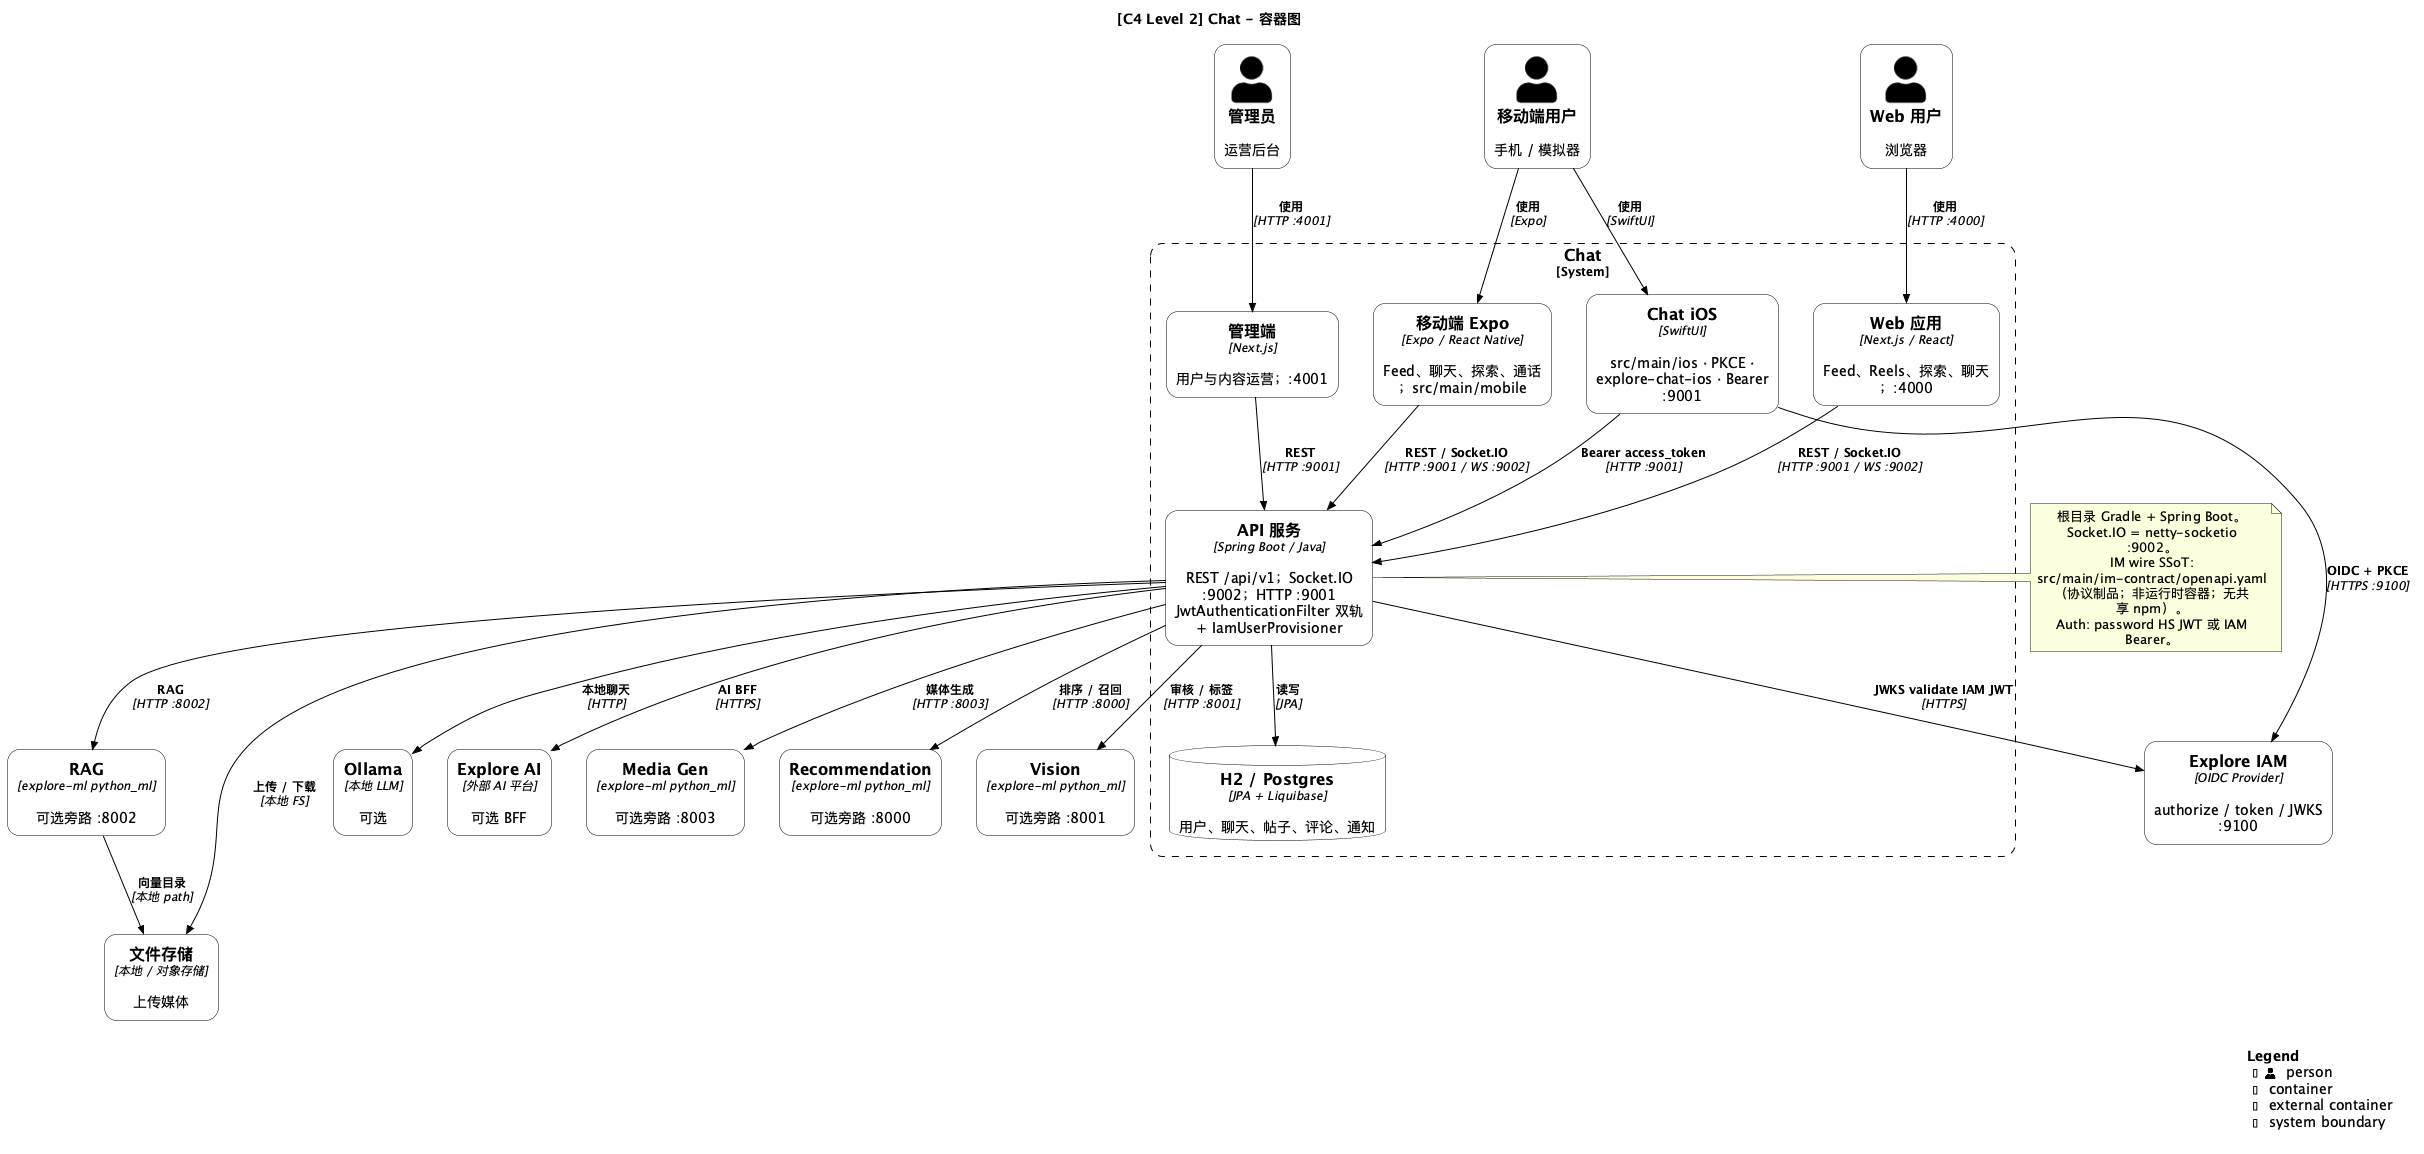
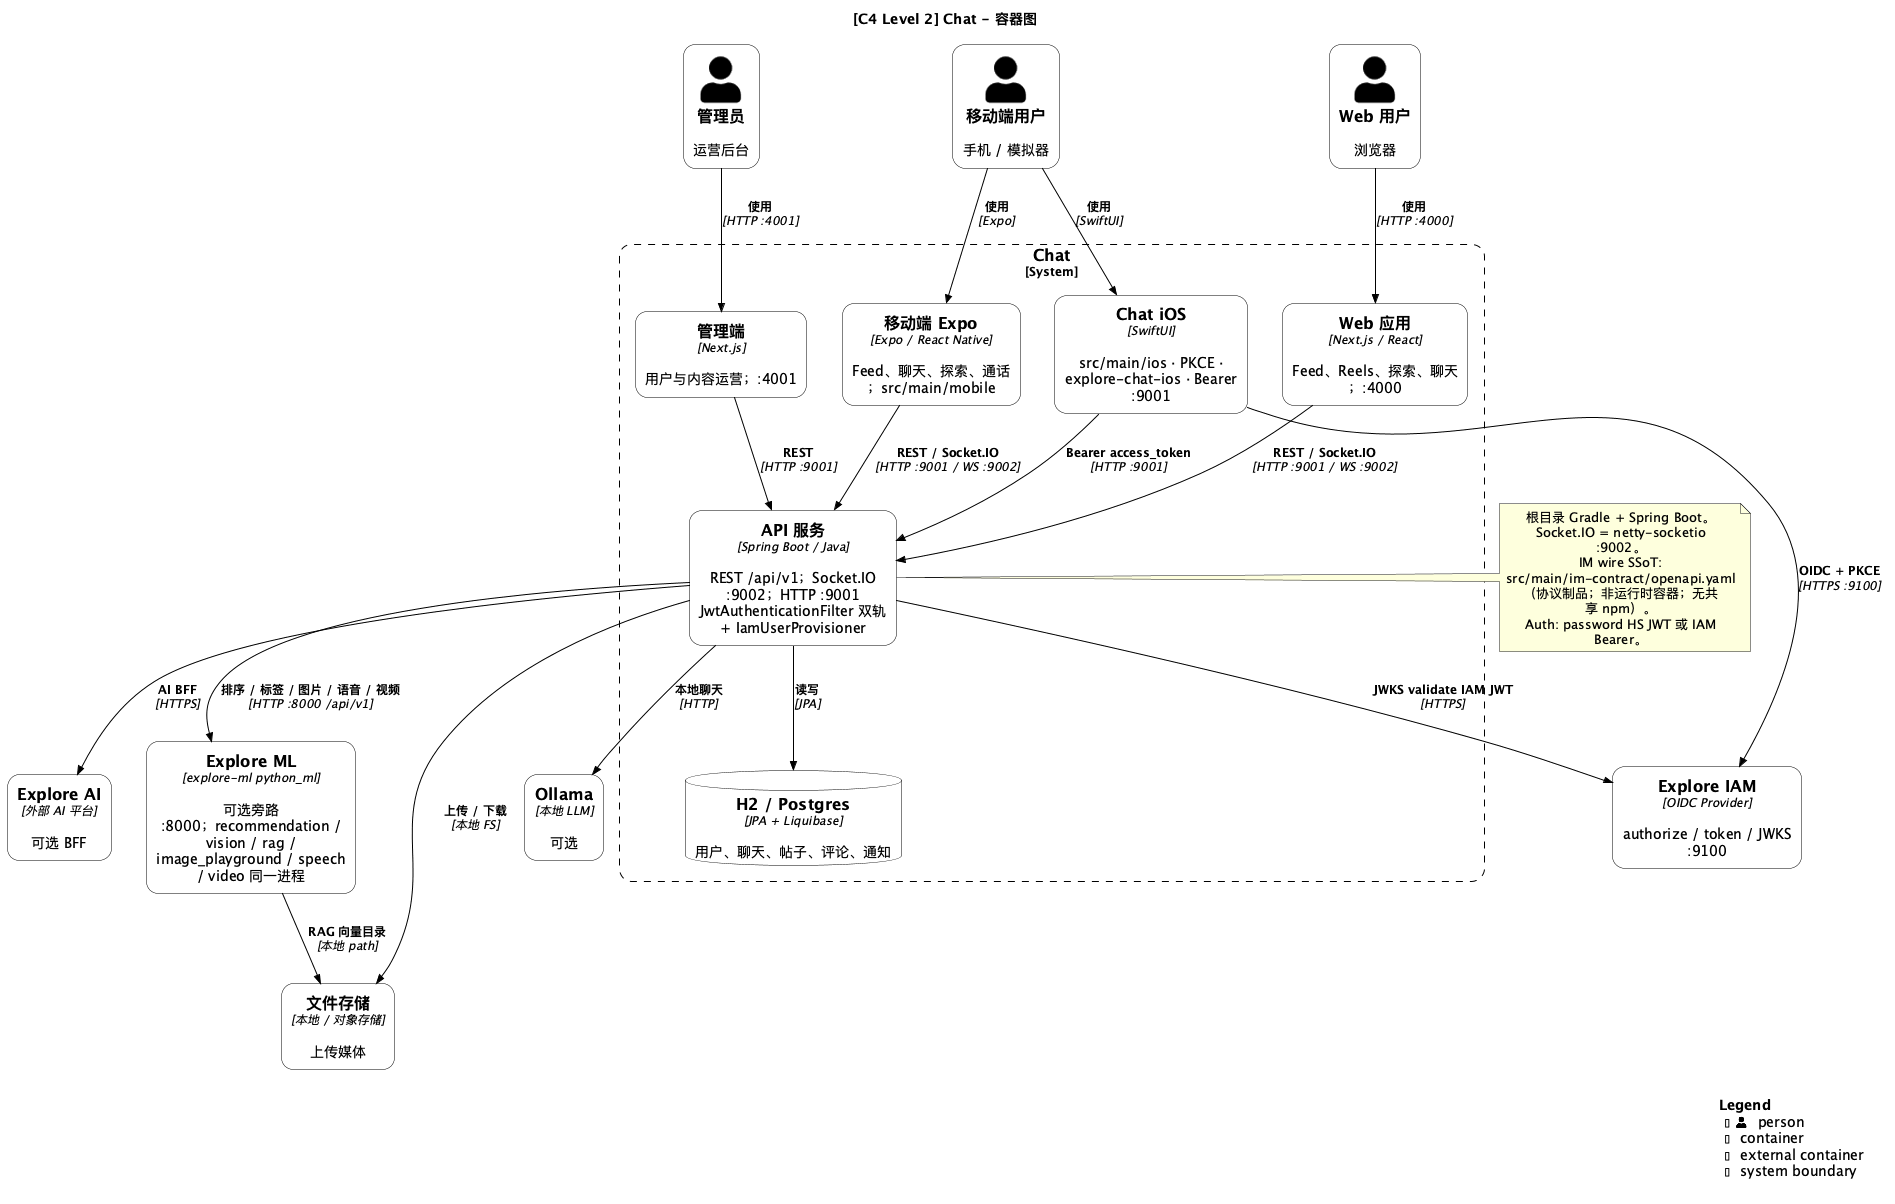
Show Explore ML as one app in Chat docs (#155)
The API now calls Explore ML through one base URL, so the docs and
C4 diagrams stop listing six helpers on ports 8000-8005. Container,
component and deployment views show one Explore ML app on :8000, and
the developer guides name EXPLORE_ML_API_URL and the aggregated
/health report.

References:

- https://github.com/felixzhu97/explore-ml/pull/62
- https://c4model.com/diagrams/container

diff --git a/docs/Glossary.md b/docs/Glossary.md
@@ -36,10 +36,10 @@ This document defines the project **Ubiquitous Language**. English terms are the
 | Notification   | 通知            | `com.chat.notifications`         | `layout/`            | `secondary/` / `app/notifications` | 通知抽屉         | `/api/v1/notifications`         | WS `notification:new`                            |
 | Media          | 媒体上传        | `com.chat.media`                 | `ai/apis/file.api`   | `feed/` (upload via RTK)           | 发帖上传         | `/api/v1/media`                 | 本地盘 / 对象存储                                |
 | Status         | 状态            | `com.chat.status`           | `secondary/pages/`   | `feed/` (story via feedApi)        | Status UI        | `/api/v1/status`                | 24h 状态                                         |
-| Image Gen      | 图片生成        | `com.chat.ai` → explore-ml image-playground | `ai/apis/image.api`  | —                                  | 生成对话框       | `/api/v1/images:generate`       | API → explore-ml `:8003`                         |
-| Video Gen      | 视频生成        | `com.chat.ai` → explore-ml video | `ai/apis/video.api`  | —                                  | 生成对话框       | `/api/v1/videos:generate`       | API → explore-ml `:8005`                         |
-| Voice Gen      | 语音合成        | `com.chat.ai` → explore-ml speech | `ai/apis/voice.api`  | —                                  | 生成对话框       | `/api/v1/voices:synthesize`     | API → explore-ml `:8004`                         |
-| Vision         | 视觉审核        | `com.chat.ai` → explore-ml vision    | `ai/apis/vision.api` | —                                  | 发帖链路         | `/api/v1/vision`                | 旁路 explore-ml `:8001`                          |
+| Image Gen      | 图片生成        | `com.chat.ai` → explore-ml image_playground | `ai/apis/image.api`  | —                                  | 生成对话框       | `/api/v1/images:generate`       | API → explore-ml `:8000`                         |
+| Video Gen      | 视频生成        | `com.chat.ai` → explore-ml video | `ai/apis/video.api`  | —                                  | 生成对话框       | `/api/v1/videos:generate`       | API → explore-ml `:8000`                         |
+| Voice Gen      | 语音合成        | `com.chat.ai` → explore-ml speech | `ai/apis/voice.api`  | —                                  | 生成对话框       | `/api/v1/voices:synthesize`     | API → explore-ml `:8000`                         |
+| Vision         | 视觉审核        | `com.chat.ai` → explore-ml vision    | `ai/apis/vision.api` | —                                  | 发帖链路         | `/api/v1/vision`                | 旁路 explore-ml `:8000`                          |
 | Analytics      | 分析            | `com.chat.analytics`        | —                    | `layout/providers`                 | Admin            | `/api/v1/analytics`             |                                                  |
 | Ads            | 广告            | `com.chat.ads`              | —                    | —                                  | Admin            | `/api/v1/ads`                   |                                                  |
 | Admin          | 管理            | `com.chat.admin`            | —                    | —                                  | Admin App        | `/api/v1/admin`                 |                                                  |

diff --git a/docs/developer/aip-rest.md b/docs/developer/aip-rest.md
@@ -52,8 +52,8 @@ and `src/main/ios/Chat/Core/Network/RpcStatus.swift`.
 
 Optional FastAPI helpers live in sibling
 [explore-ml](https://github.com/felixzhu97/explore-ml) under
-`python_ml/{recommendation,vision,rag,image-playground,speech,video}`.
-Clients still call the Spring API only; the API calls these over loopback with **snake_case** JSON.
+`python_ml/{recommendation,vision,rag,image_playground,speech,video}`, served by
+one app on `:8000`. Clients still call the Spring API only; the API calls these over loopback with **snake_case** JSON.
 
 | Service          | Legacy                         | AIP                                      |
 | ---------------- | ------------------------------ | ---------------------------------------- |
@@ -64,8 +64,8 @@ Clients still call the Spring API only; the API calls these over loopback with *
 | vision           | `POST /predict`                | `POST /api/v1/images:predict`            |
 | vision           | `POST /moderate`               | `POST /api/v1/images:moderate`           |
 | vision           | `POST /moderate-video`         | `POST /api/v1/videos:moderate`           |
-| image-playground | `POST /image/generate`         | `POST /api/v1/images:generate`           |
-| image-playground | `GET /image/generate/{id}`     | `GET /api/v1/imageJobs/{image_job}`      |
+| image_playground | `POST /image/generate`         | `POST /api/v1/images:generate`           |
+| image_playground | `GET /image/generate/{id}`     | `GET /api/v1/imageJobs/{image_job}`      |
 | video            | `POST /video/generate`         | `POST /api/v1/videos:generate`           |
 | video            | `GET /video/generate/{id}`     | `GET /api/v1/videoJobs/{video_job}`      |
 | speech           | `POST /voice/synthesize`       | `POST /api/v1/voices:synthesize`         |
@@ -76,7 +76,7 @@ Clients still call the Spring API only; the API calls these over loopback with *
 | rag              | `POST /api/v1/sync/posts`      | `POST /api/v1/posts:sync`                |
 
 Each helper ships `aip/` (`rpc_status`, exception handlers, `page_token` for RAG lists).
-`/health` and `/metrics` stay unversioned.
+`GET /health` stays unversioned and reports every module in one response.
 
 ## Validation
 

diff --git a/docs/developer/python-services.md b/docs/developer/python-services.md
@@ -1,19 +1,20 @@
 # Python ML helpers (sibling repo)
 
-Optional FastAPI helpers used by this Spring API over loopback live in
+Optional FastAPI modules used by this Spring API over loopback live in
 sibling **[explore-ml](https://github.com/felixzhu97/explore-ml)** under
-`python_ml/{recommendation,vision,rag,image-playground,speech,video}`.
+`python_ml/{recommendation,vision,rag,image_playground,speech,video}`.
+They are served by **one app on port 8000**.
 
-Clients still call **Spring only**. Default ports are unchanged:
+Clients still call **Spring only**. The API reads one base URL:
 
-| Service          | Default port | Nest / Spring env            |
-| ---------------- | ------------ | ---------------------------- |
-| recommendation   | 8000         | `RECOMMENDATION_API_URL`     |
-| vision           | 8001         | `VISION_SERVICE_URL`         |
-| rag              | 8002         | `RAG_SERVICE_URL`            |
-| image-playground | 8003         | `IMAGE_PLAYGROUND_API_URL`   |
-| speech           | 8004         | `SPEECH_API_URL`             |
-| video            | 8005         | `VIDEO_API_URL`              |
+| Spring property          | Env                  | Default                 |
+| ------------------------ | -------------------- | ----------------------- |
+| `chat.upstreams.explore-ml` | `EXPLORE_ML_API_URL` | `http://localhost:8000` |
+
+Every module answers under that URL with its `/api/v1` method (for
+example `feeds:rank`, `images:predict`, `images:generate`,
+`voices:synthesize`, `videos:generate`). `GET /health` reports each
+module.
 
 ## Canonical docs
 
@@ -22,8 +23,8 @@ Clients still call **Spring only**. Default ports are unchanged:
 ## Start (from explore-ml)
 
 ```bash
-cd ../explore-ml/python_ml/<name>   # sibling checkout
-uvicorn main:app --host 0.0.0.0 --port $PORT
+cd ../explore-ml/python_ml   # sibling checkout
+uvicorn main:app --host 0.0.0.0 --port 8000
 ```
 
 ## References

diff --git a/docs/developer/api.md b/docs/developer/api.md
@@ -122,28 +122,29 @@ GET ${API_PREFIX}/posts/feed  ·  GET ${API_PREFIX}/posts/reels
 
 ## Vision / Image / Video / Voice
 
-| Prefix    | Upstream              |
-| --------- | --------------------- |
-| `/vision` | Vision 服务 `:8001`   |
-| `/image`  | Image Playground `:8003` |
-| `/video`  | Video `:8005`         |
-| `/voice`  | Speech `:8004`        |
+| Prefix    | Upstream（Explore ML `:8000`） |
+| --------- | ------------------------------ |
+| `/vision` | vision 模块                    |
+| `/image`  | image_playground 模块          |
+| `/video`  | video 模块                     |
+| `/voice`  | speech 模块                    |
 
 ---
 
 ## Side services
 
-Optional helpers live in sibling
-[explore-ml](https://github.com/felixzhu97/explore-ml) (`python_ml/`).
+Optional modules live in sibling
+[explore-ml](https://github.com/felixzhu97/explore-ml) (`python_ml/`), served
+by one app on `:8000` (`EXPLORE_ML_API_URL`).
 
-| Service          | Default port | Docs |
-| ---------------- | ------------ | ---- |
-| Recommendation   | 8000         | Feed/Explore 排序与召回 |
-| Vision           | 8001         | 标签与 NSFW |
-| RAG              | 8002         | 语义搜索 / 问答 |
-| Image Playground | 8003         | 图片生成 |
-| Speech           | 8004         | 语音合成 / ASR |
-| Video            | 8005         | 视频生成 |
+| Module           | Docs |
+| ---------------- | ---- |
+| recommendation   | Feed/Explore 排序与召回 |
+| vision           | 标签与 NSFW |
+| rag              | 语义搜索 / 问答 |
+| image_playground | 图片生成 |
+| speech           | 语音合成 / ASR |
+| video            | 视频生成 |
 
 客户端应优先经 Spring API，而不是在浏览器硬编码旁路服务密钥。
 See [python-services.md](./python-services.md).

diff --git a/docs/developer/c4-model/README.md b/docs/developer/c4-model/README.md
@@ -118,7 +118,7 @@ Chat iOS `IamAuthService` → Explore IAM → Bearer `/api/v1/auth/me` → 主 T
 | Mobile       | Expo / React Native (`src/main/mobile`)                                                        |
 | API          | Spring Boot；REST / Socket.IO；`:9001`                                         |
 | 持久化       | H2 / Postgres（JPA + Liquibase）                                                       |
-| 旁路（可选） | [explore-ml](https://github.com/felixzhu97/explore-ml) `python_ml/` — recommendation `:8000`、vision `:8001`、rag `:8002`、image-playground `:8003`、speech `:8004`、video `:8005` |
+| 旁路（可选） | [explore-ml](https://github.com/felixzhu97/explore-ml) `python_ml/` — 单一应用 `:8000`（recommendation、vision、rag、image_playground、speech、video）；`EXPLORE_ML_API_URL` |
 | AI           | 本地 Ollama；Explore AI 经 Spring BFF                                                  |
 
 限界上下文（Java）：`auth` / `users` / `post` / `comments` / `chats` / `search` / `notifications` / …

diff --git a/README.md b/README.md
@@ -96,7 +96,7 @@ packages/                Shared IM and analytics (web / Expo)
 docs/                    Guideline, Glossary, developer, C4
 ```
 
-Optional ML helpers live in sibling [`explore-ml`](https://github.com/felixzhu97/explore-ml) under `python_ml/` (ports `:8000`–`:8005`).
+Optional ML helpers live in sibling [`explore-ml`](https://github.com/felixzhu97/explore-ml) under `python_ml/`, served as one app on `:8000` (`EXPLORE_ML_API_URL`).
 
 Java features use per-feature packages: `controller` → `service` → `domain` ← `infra`, plus `mapper`.
 
